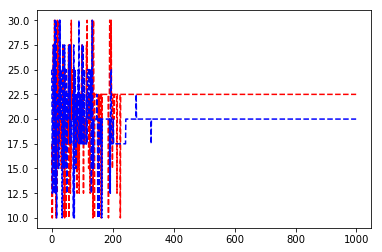
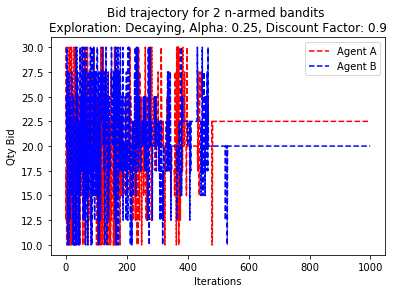
plot mods, more sims

diff --git a/baseline.py b/baseline.py
@@ -62,10 +62,10 @@ BanditA = {options:0 for options in options_pa}
 BanditB = {}
 BanditB = {options:0 for options in options_pb}
 
-total_iters=1000
-gamma = 1.
-epsilon = 1.
-alpha = 0.3
+total_iters=2500
+gamma = 0.8
+epsilon = 0.975
+alpha = 0.5
 saturation = 90
 
 RewA = []
@@ -78,7 +78,7 @@ for i in range(total_iters):
     print ('iter', i)
     max_bid_pa = list(BanditA.keys())[list(BanditA.values()).index(max(BanditA.values()))]
     rndm_bid_pa = rdm.choice(options_pa)
-    if rdm.uniform(0,1) <= (1 - epsilon):
+    if rdm.uniform(0,1) <= (epsilon):
         bid_pa = max_bid_pa
         print ("max A", bid_pa)
     else:
@@ -87,7 +87,7 @@ for i in range(total_iters):
 
     max_bid_pb = list(BanditB.keys())[list(BanditB.values()).index(max(BanditB.values()))]
     rndm_bid_pb = rdm.choice(options_pb)
-    if rdm.uniform(0,1) <= (1 - epsilon):
+    if rdm.uniform(0,1) <= (epsilon):
         bid_pb = max_bid_pb
         print ("max B", bid_pb)
     else:
@@ -100,9 +100,9 @@ for i in range(total_iters):
     ra = p*bid_pa - mca*bid_pa
     rb = p*bid_pb - mcb*bid_pb
     
-    BanditA[bid_pa] = (1 - alpha)*BanditA[bid_pa] + alpha*(ra + gamma*bid_pa)
-    BanditB[bid_pb] = (1 - alpha)*BanditB[bid_pb] + alpha*(rb + gamma*bid_pb)
-    epsilon = epsilon - epsilon*(float((i*0.1))/float(total_iters))
+    BanditA[bid_pa] = (1 - alpha)*BanditA[bid_pa] + alpha*(ra + gamma*max_bid_pa)
+    BanditB[bid_pb] = (1 - alpha)*BanditB[bid_pb] + alpha*(rb + gamma*max_bid_pb)
+    #epsilon = epsilon - epsilon*(float((i*0.025))/float(total_iters))
     print ('epsilon', epsilon)
     RewA.append(ra)
     RewB.append(rb)
@@ -111,12 +111,22 @@ for i in range(total_iters):
     P.append(p)
 
 plt.figure()
-plt.plot(RewA,'r--', RewB, 'b--')
+plt.title('Reward trajectory for 2 n-armed bandits \nExploration: 0.975-greedy, Alpha: 0.5, Discount Factor: 0.8')
+plt.plot(RewA,'r--', label = 'Agent A')
+plt.plot(RewB, 'b--', label = 'Agent B')
+plt.ylabel('Net Revenue')
+plt.xlabel('Iterations')
+plt.legend()
 #, RewB, 'bs')
 plt.show()
 
 plt.figure()
-plt.plot(BidA,'r--', BidB, 'b--')
+plt.title('Bid trajectory for 2 n-armed bandits \nExploration: 0.975-greedy, Alpha: 0.5, Discount Factor: 0.8')
+plt.plot(BidA,'r--', label = 'Agent A')
+plt.plot(BidB, 'b--', label = 'Agent B')
+plt.ylabel('Qty Bid')
+plt.xlabel('Iterations')
+plt.legend()
 plt.show()
         
     
